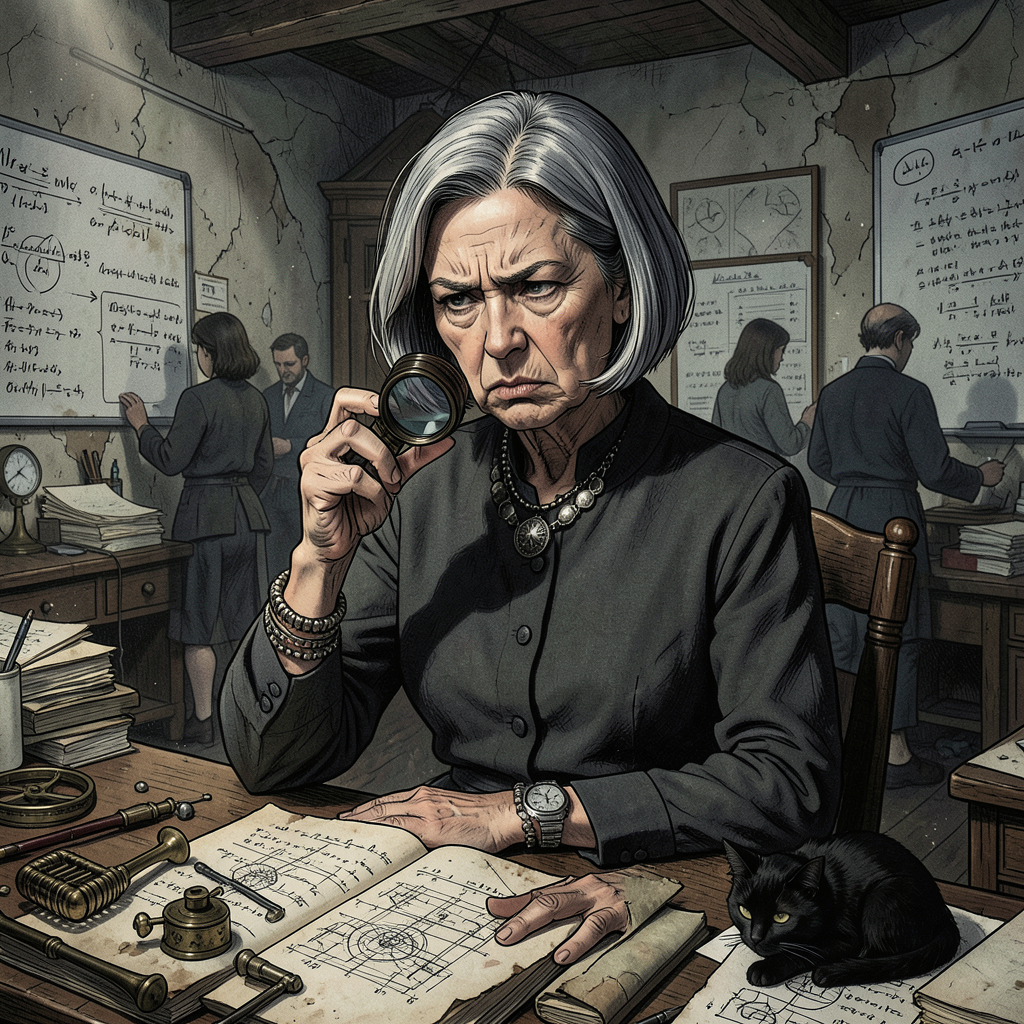
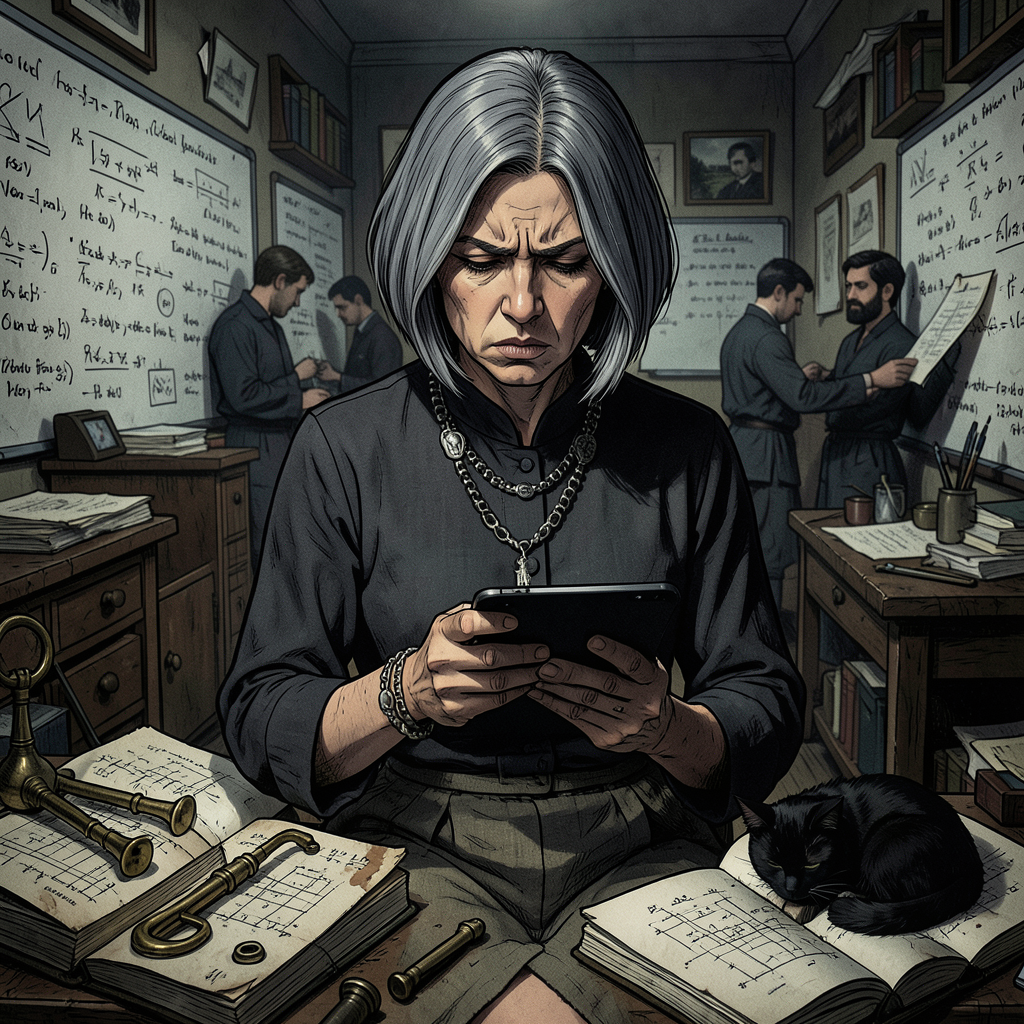
feat: update Critic archetype visual concept and add new art variations

diff --git a/archetypes/27_Critic_ocEaN.md b/archetypes/27_Critic_ocEaN.md
@@ -3,4 +3,4 @@
 - **Gender Probability:** Female (The combination of low Agreeableness and high Neuroticism, coupled with an expressive and socially dominant nature, creates a fiercely reactive, loud, and vigilant feminine archetype)
 - **Light Attributes:** Fiercely logical and independent, naturally spontaneous and energetic, deeply practical, commanding and highly expressive, and possessing an intense emotional vigilance over the world.
 - **Shadow Attributes:** Prone to loud and reactive outbursts, highly defensive and combative when challenged, chronically disorganized, and frequently overwhelmed by the perceived threats to tradition or logic.
-- **Visual Concept:** A portrait photograph of a woman in her late 40s with a sharp, expressive face and a striking, angular grey bob that shows hints of premature grey. She is sitting in a chaotic, but logical, cluttered private study, her desk a jumble of open, ink-stained notebooks, disassembled antique instruments, and complex formulas scrawled across multiple whiteboards that cover the walls. She holds a sophisticated, dark-rimmed loupe in one hand, meticulously scrutinizing a mechanical blueprint through it, her eyes staring with hyper-fixated intensity. Her face is tense, with a slight furrowed brow and compressed lips, reflecting intense, logical concentration and a simmering internal anxiety. She wears a tailored, high-collar tunic in deep charcoal grey over an asymmetrical linen skirt, her accessories a collection of heavy, mismatched metallic jewelry, emphasizing her fierce independence and sensory sensitivity. A single, focused task light illuminates her face and the project, casting deep, aggressive shadows that symbolize her obsessive isolation. In the background, other blurred figures of her team work far away, emphasizing her total self-sufficient isolation. The overall texture is gritty, with peeling paint, exposed wood beams, and dust motes catching the light, symbolizing her dismissal of external order and her uncompromising, erratic creativity. A small, black cat is curled among the discarded sketches nearby, the only creature she tolerates. The visual mood is one of profound, intellectual solitude and intense, volatile energy.
+- **Visual Concept:** A portrait photograph of a woman in her early 30s with a sharp, expressive face and a striking, angular grey bob that shows hints of premature grey. She is sitting in a chaotic, but logical, cluttered private study, her desk a jumble of open, ink-stained notebooks, disassembled antique instruments, and complex formulas scrawled across multiple whiteboards that cover the walls. She is seen meticulously scrutinizing a blueprint on her Android tablet, her eyes staring with hyper-fixated intensity. Her face is tense, with compressed lips, reflecting intense, logical concentration and a simmering internal anxiety. She wears a high-collar tunic in deep charcoal grey over an asymmetrical linen skirt, her accessories a collection of heavy, mismatched metallic jewelry, emphasizing her fierce independence and sensory sensitivity. A single, focused task light illuminates her face and the project, casting deep, aggressive shadows that symbolize her obsessive isolation. In the background, other blurred figures of her team work far away, emphasizing her total self-sufficient isolation. The overall texture is gritty, symbolizing her dismissal of external order and her uncompromising, erratic creativity. A small, black cat is curled among the discarded sketches nearby, the only creature she tolerates. The visual mood is one of profound, intellectual solitude and intense, volatile energy.
